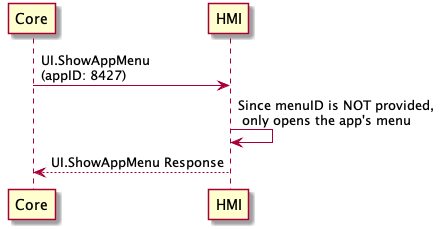
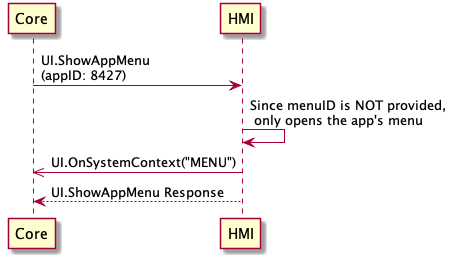
Add the OnSystemContext notification step for opening the menu

Changed region(s): [[0.0, 0.0, 0.9955, 1.0], [0.4685, 0.0, 0.5856, 0.2445], [0.0586, 0.4279, 0.0878, 0.5808]]

diff --git a/docs/UI/ShowAppMenu/index.md b/docs/UI/ShowAppMenu/index.md
@@ -9,6 +9,11 @@ Sender
 Purpose
 : Show an app's menu or a corresponding sub-menu.
 
+!!! must
+
+After opening the menu, the HMI must send a [UI.OnSystemContext](../OnSystemContext) notification with `systemContext: "MENU"` to SDL.
+
+!!!
 ### Request
 
 #### Parameters
